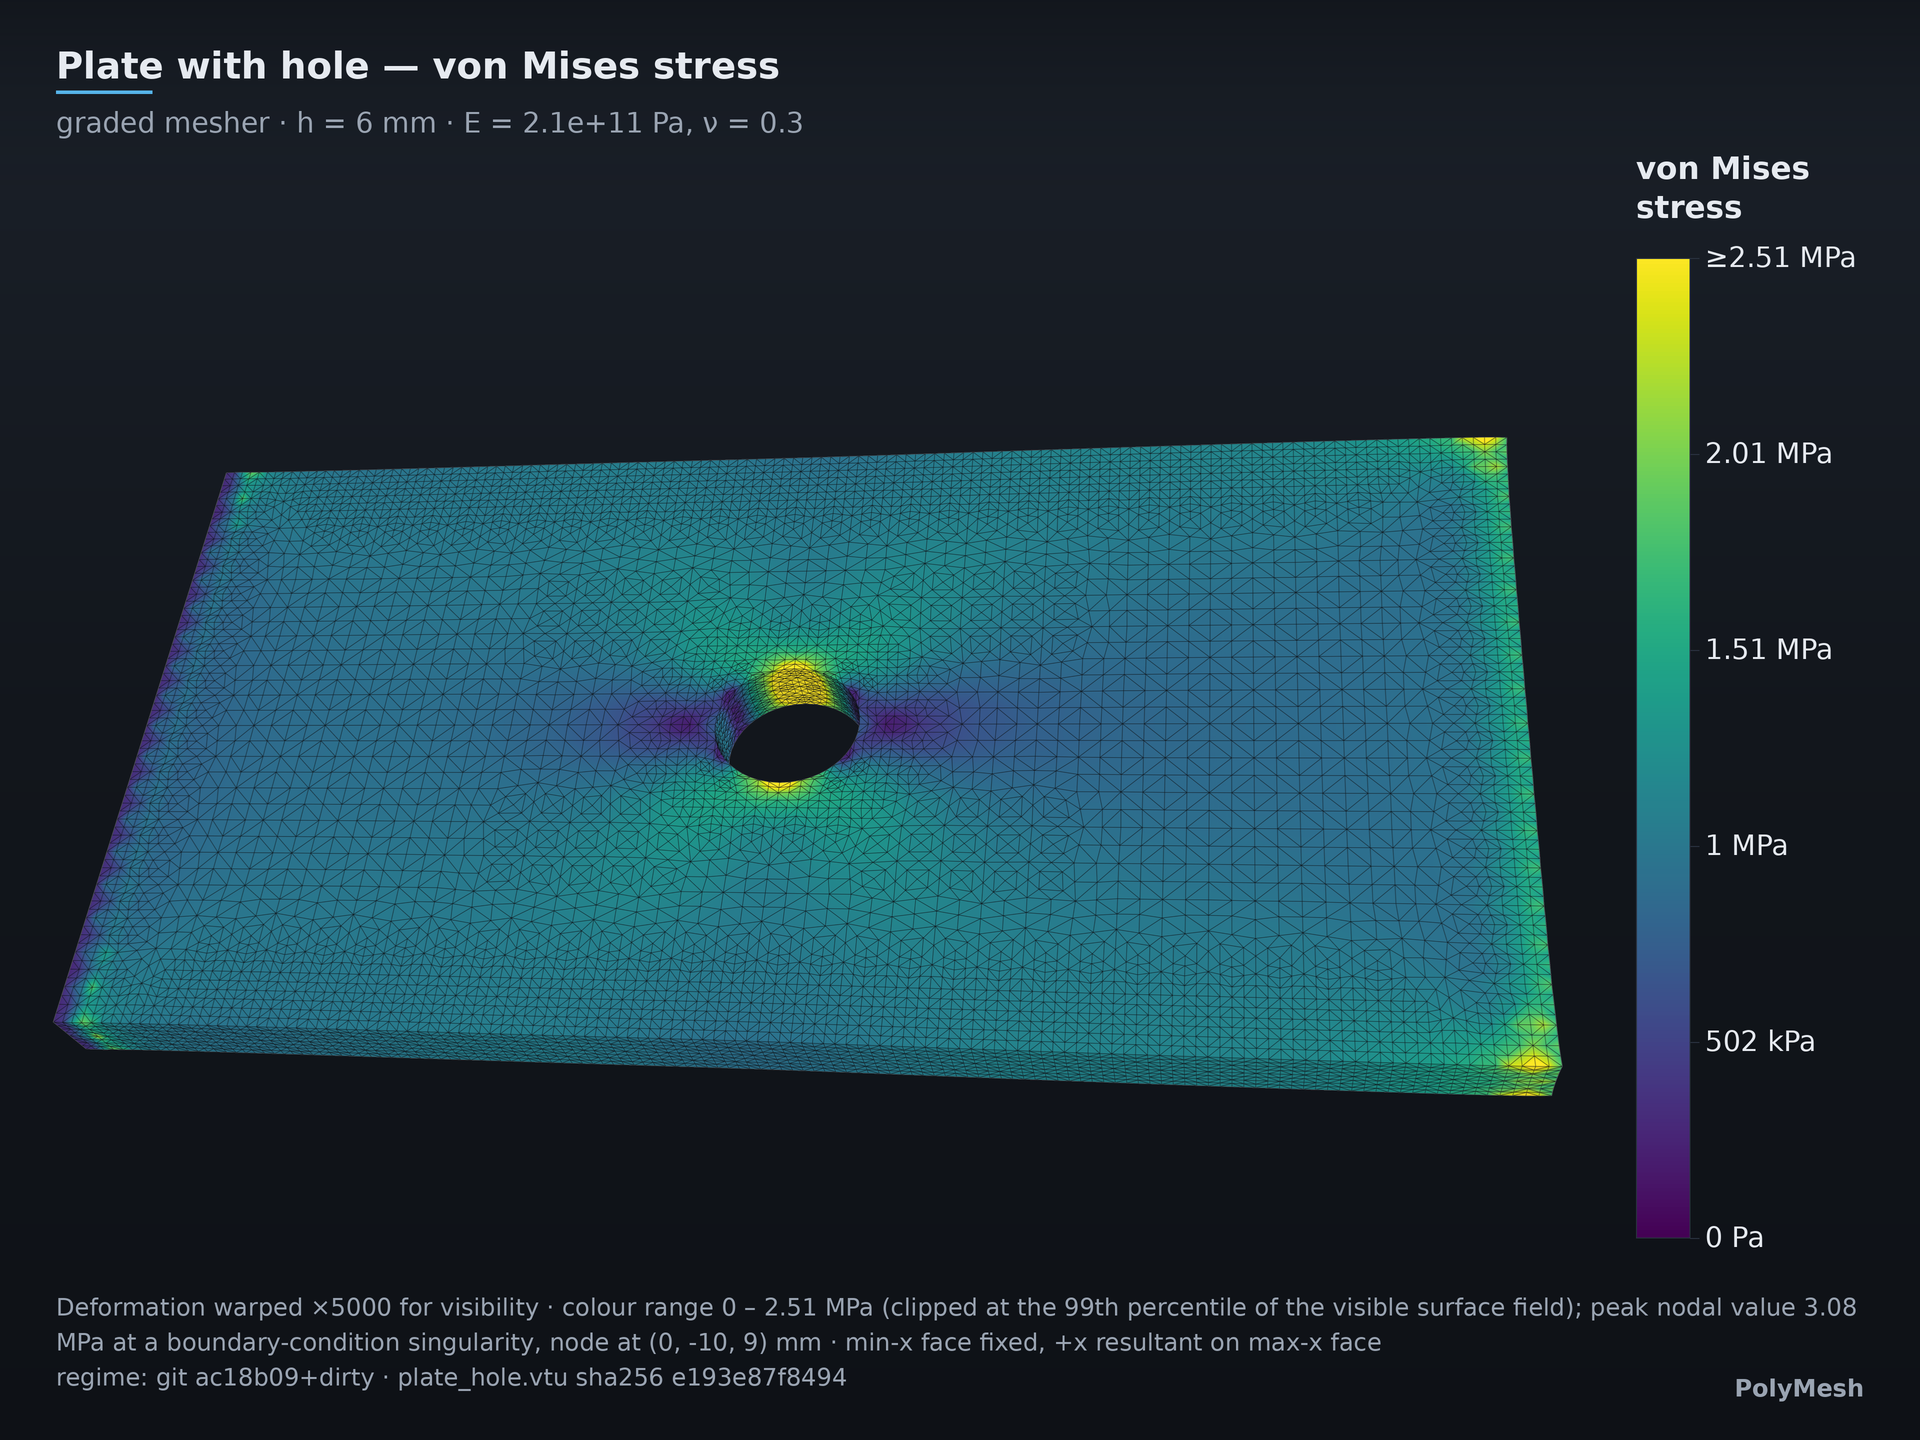
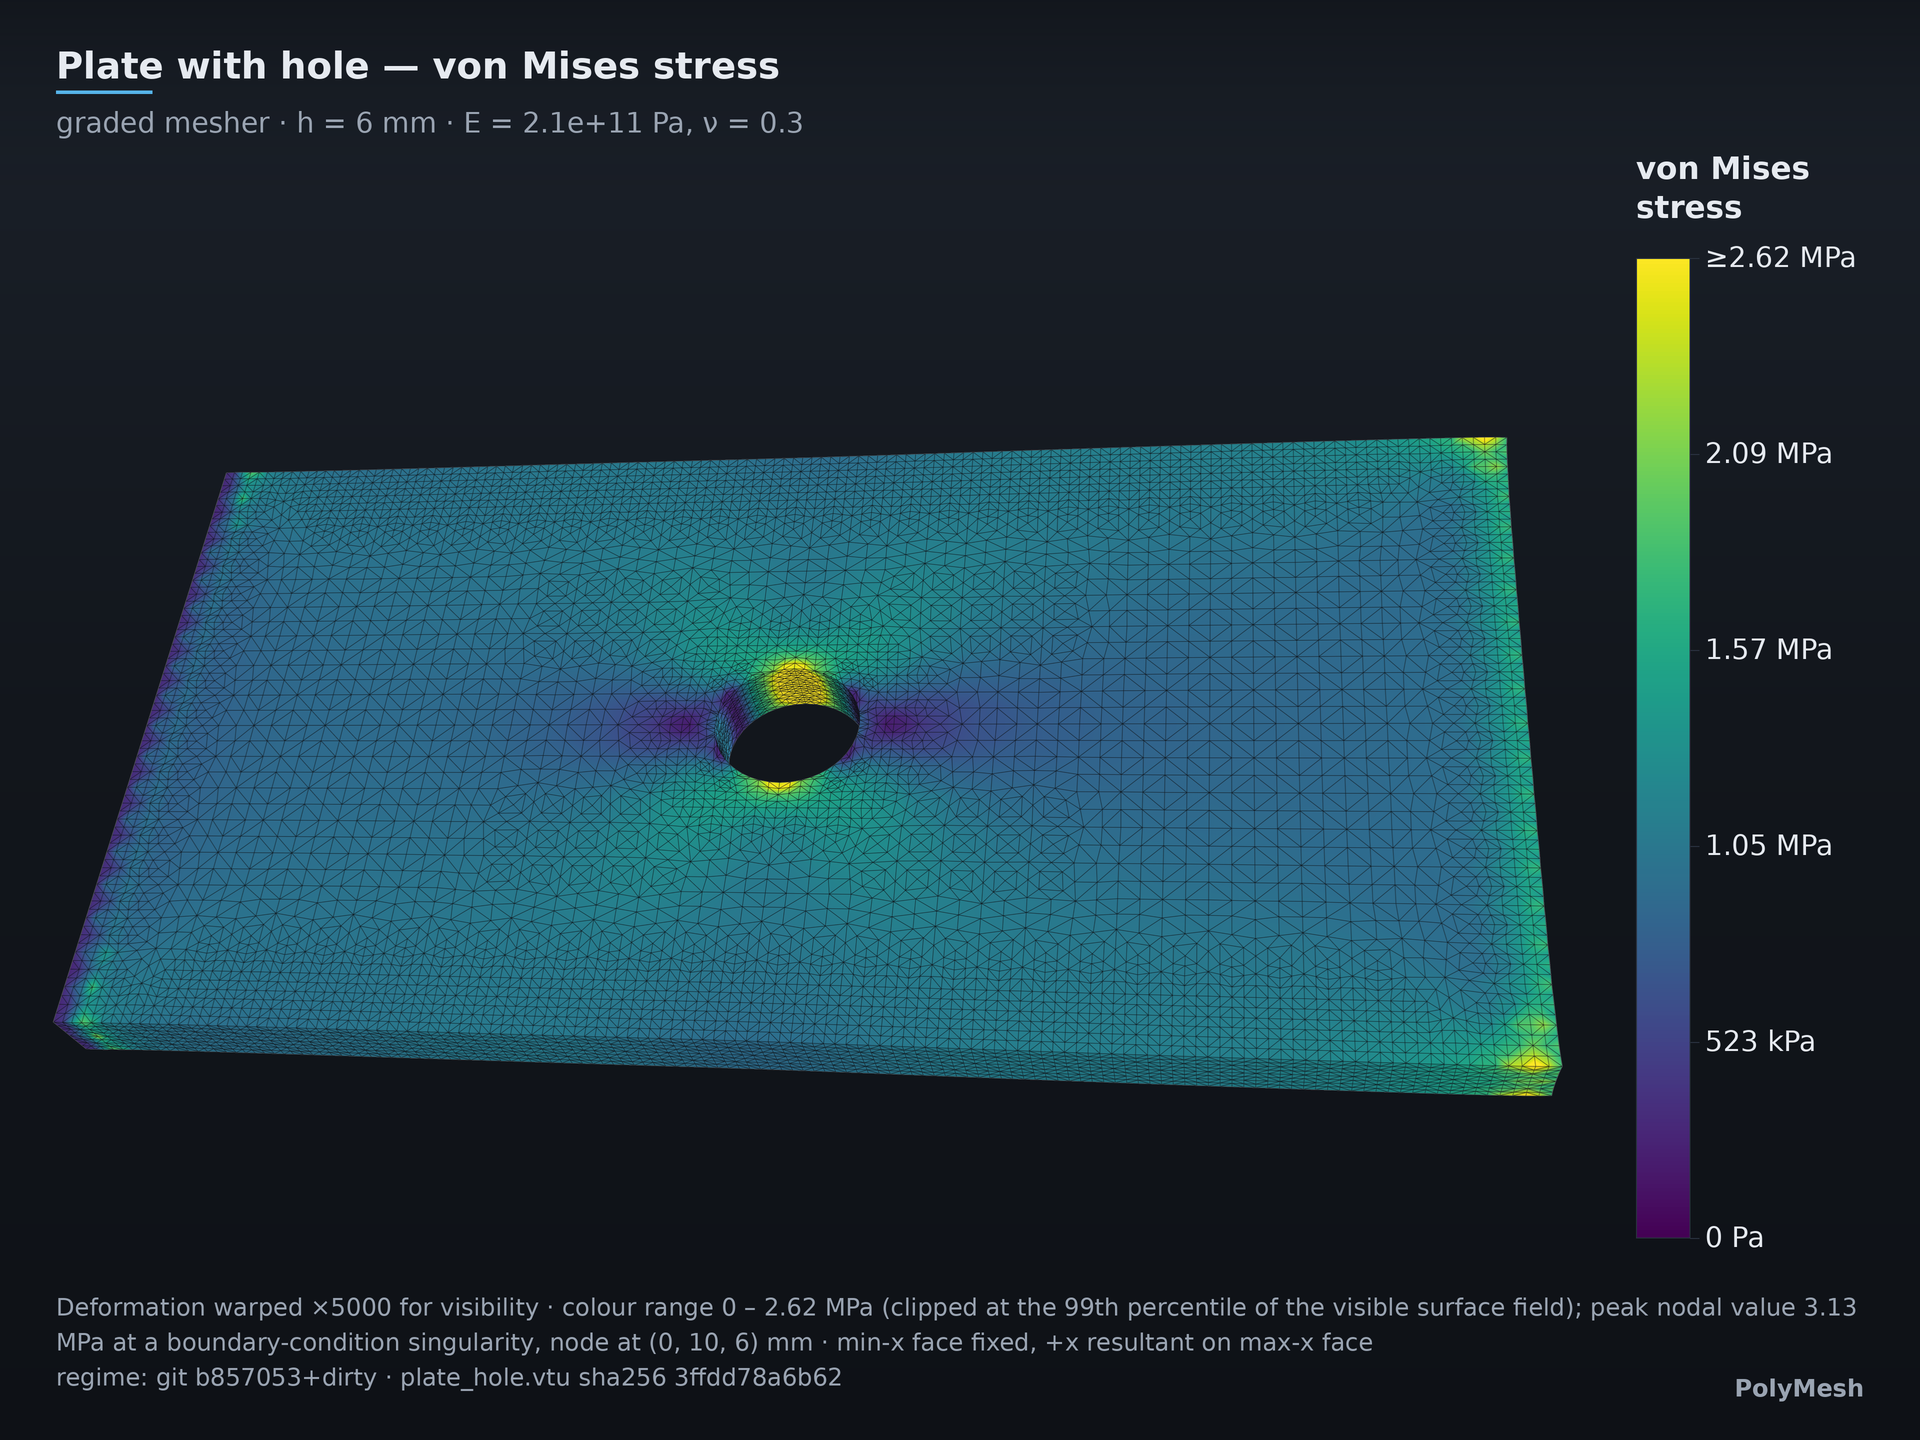
Regenerate the showcase on the straggler-rescue mesher
All five parts re-solved (ADR-0039). The cone's showcase mesh now reports
exterior_gate left=0 and ships zero all-fixed elements (was 8 at the foot).
Peak von Mises: plate 3.13 MPa, cantilever 8.64, cone 8.67, sphere 4.31 —
all within 1.5% of the previous manifest; the cylinder's loaded-rim peak is
3.13 MPa (was 16.24 — the one-node spike at the traction discontinuity is
gone with the rim stragglers; mid-wall 0.998 MPa vs F/A = 1.000 unchanged).
Sphere band iso-line rms unchanged at 3.76e-4 m (500 kPa), as ADR-0037 §5
predicts for discretisation error at the singularity. SHOWCASE.md per-part
DOF/wall/peak numbers re-synced to the manifest.

diff --git a/docs/SHOWCASE.md b/docs/SHOWCASE.md
@@ -56,7 +56,7 @@ in the manifest too.
 
 Flat plate with a central hole — the canonical stress-riser benchmark geometry.
 Feature-aware grading concentrates elements around the hole where the gradient
-lives. h = 6 mm, 52,016 curved cells, **233,388 solved DOF**, 156 s wall. h was
+lives. h = 6 mm, 52,080 curved cells, **233,820 solved DOF**, 121 s wall. h was
 3 mm while the shipped mesh was straight-edged; the exact curved boundary now
 renders a smoother hole at ~1/8 the cells.
 
@@ -69,7 +69,7 @@ python scripts/render_showcase.py --only plate_hole
 ![cantilever](assets/showcase/gallery_cantilever.png)
 
 End-loaded cantilever: linear bending stress distribution, maximum at the
-clamped root. h = 30 mm, 44,832 curved cells, **193,971 solved DOF**, 74 s wall.
+clamped root. h = 30 mm, 44,832 curved cells, **193,971 solved DOF**, 58 s wall.
 This is the geometry behind the Timoshenko tip-deflection verification (1.50%
 error,
 [bench/reports/p1-gate1-convergence.md](../bench/reports/p1-gate1-convergence.md)).
@@ -86,11 +86,11 @@ Curved-wall solid imported from STEP. Curvature-dominant sizing uses a 0.5×
 accuracy lattice, then the **authoritative solve mesh** is promoted to
 tet10/hex20 and its boundary mids are projected onto the exact BRep. The same
 curved volume elements are assembled, exported, and rendered. h = 12 mm,
-**703,599 solved DOF**, 780 s wall. Its load box selects the cap plus the top
+**688,047 solved DOF**, 780 s wall. Its load box selects the cap plus the top
 5 mm of wall, and since [ADR-0037](decisions/0037-a-box-selection-is-a-region.md)
 the traction is integrated over exactly that region instead of over whole faces,
-so a +z shear runs up to the sharp top rim: the peak nodal value is 16.24 MPa
-there, against 3.49 MPa just above the clamped base face and a nominal 0.998 MPa
+so a +z shear runs up to the sharp top rim: the peak nodal value is 3.13 MPa
+there, against 2.31 MPa just above the clamped base face and a nominal 0.998 MPa
 in the mid-wall (F/A = 1.000 MPa exactly). The fixture is the z = 0 face alone
 since [ADR-0038](decisions/0038-a-fixture-is-applied-to-the-boundary.md); it used
 to be every node below z = 15 mm, which froze 30.7% of the elements solid.
@@ -106,7 +106,7 @@ python scripts/render_showcase.py --only cylinder
 Closed curved B-rep — the hardest case for a Cartesian grid fill. The shipped
 mesh is no longer a linear solve hidden behind a smoothed render: graded
 boundary topology, projected tet10 geometry, stiffness assembly, VTU export and
-Studio all consume the same authoritative node set. h = 8 mm, **521,271 solved
+Studio all consume the same authoritative node set. h = 8 mm, **521,175 solved
 DOF**, 112 s wall.
 
 ```sh
@@ -119,8 +119,8 @@ python scripts/render_showcase.py --only sphere
 One watertight 3D Boolean solid: a round truncated cone fused into an
 overlapping spherical scoop. Sharp CAD-edge paths are recovered through the
 boundary graph under the same cell-quality/Jacobian gate, and the projected
-quadratic volume mesh is solved directly. h = 10 mm, **379,815 solved DOF**,
-115 s wall.
+quadratic volume mesh is solved directly. h = 10 mm, **383,295 solved DOF**,
+88 s wall.
 
 ```sh
 python scripts/render_showcase.py --only icecream_cone
